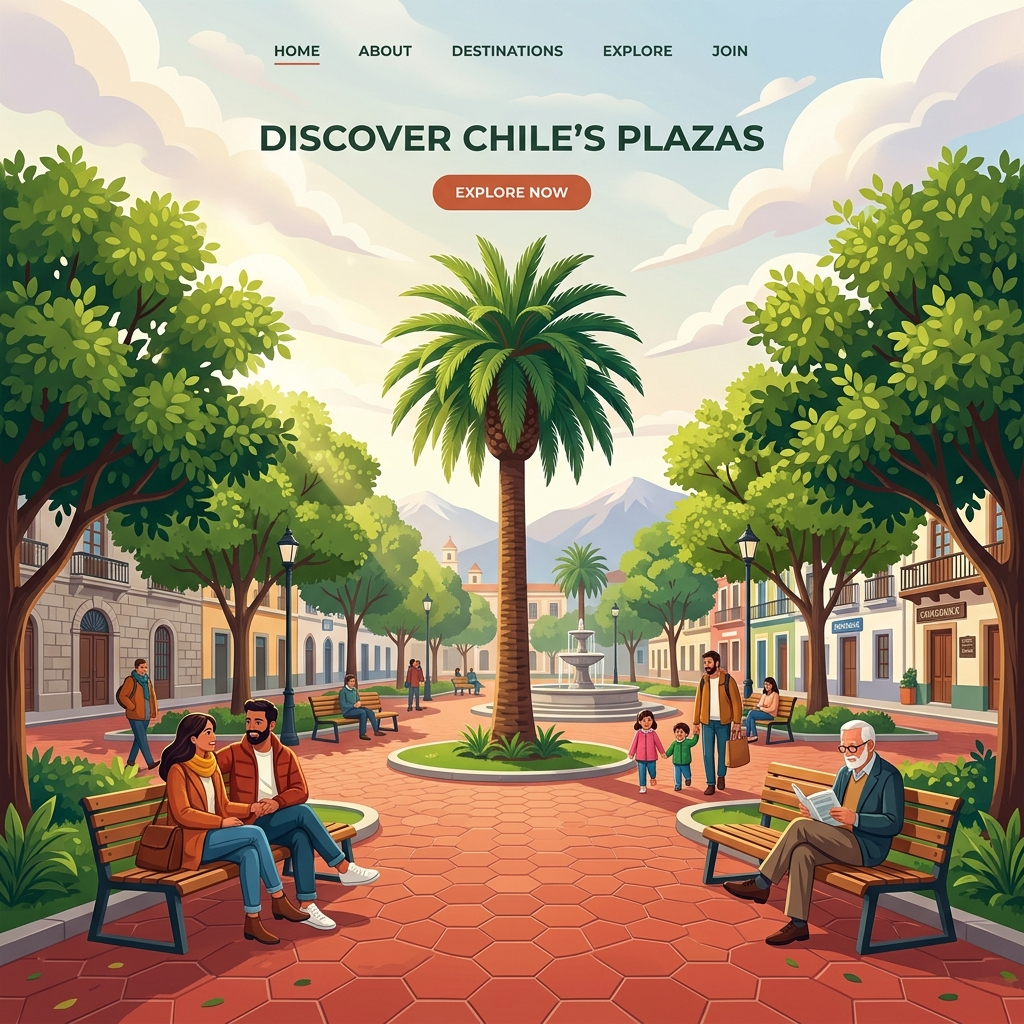
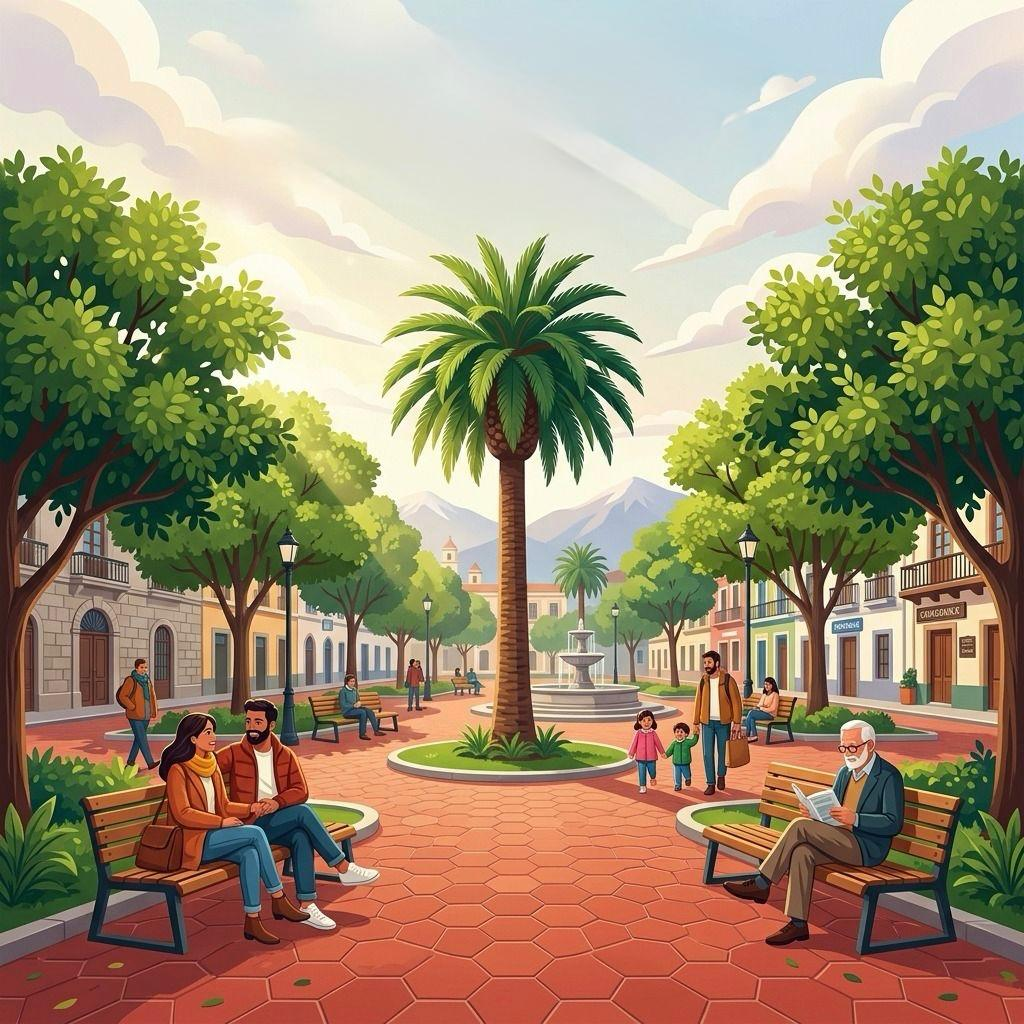
portada

diff --git a/public/css/style.css b/public/css/style.css
@@ -1593,7 +1593,7 @@ html {
     text-shadow: 0 0 10px rgba(99, 102, 241, 0.3);
 }
 
-/* Sección Hero — plaza comunitaria (recorte superior oculta texto stock) */
+/* Sección Hero — foto visible + panel legible sobre el texto */
 .landing-hero {
     position: relative;
     min-height: 90vh;
@@ -1602,7 +1602,7 @@ html {
     padding: 7rem 5% 4rem;
     background-color: #030712;
     background-repeat: no-repeat;
-    background-position: center 62%;
+    background-position: center center;
     background-size: cover;
     overflow: hidden;
 }
@@ -1613,8 +1613,8 @@ html {
     bottom: 0;
     left: 0;
     width: 100%;
-    height: 100px;
-    background: linear-gradient(to top, #030712, transparent);
+    height: 120px;
+    background: linear-gradient(to top, rgba(3, 7, 18, 0.75), transparent);
     z-index: 2;
     pointer-events: none;
 }
@@ -1623,25 +1623,32 @@ html {
     content: '';
     position: absolute;
     inset: 0;
-    background: linear-gradient(90deg, rgba(3, 7, 18, 0.35) 0%, transparent 50%, rgba(3, 7, 18, 0.15) 100%);
+    background: linear-gradient(105deg, rgba(3, 7, 18, 0.18) 0%, transparent 55%);
     z-index: 1;
     pointer-events: none;
 }
 
 .landing-hero-content {
-    max-width: 750px;
+    max-width: 720px;
     position: relative;
     z-index: 10;
     display: flex;
     flex-direction: column;
-    gap: 1.5rem;
+    gap: 1.35rem;
+    padding: 2rem 2.1rem;
+    border-radius: var(--radius-lg);
+    background: rgba(3, 7, 18, 0.48);
+    backdrop-filter: blur(16px);
+    -webkit-backdrop-filter: blur(16px);
+    border: 1px solid rgba(255, 255, 255, 0.1);
+    box-shadow: 0 20px 50px rgba(0, 0, 0, 0.35);
 }
 
 .landing-hero-tag {
     align-self: flex-start;
-    background: rgba(99, 102, 241, 0.15);
-    border: 1px solid rgba(99, 102, 241, 0.3);
-    color: #818cf8;
+    background: rgba(99, 102, 241, 0.22);
+    border: 1px solid rgba(129, 140, 248, 0.45);
+    color: #c7d2fe;
     padding: 0.35rem 1rem;
     border-radius: 50px;
     font-size: 0.8rem;
@@ -1651,6 +1658,7 @@ html {
     display: flex;
     align-items: center;
     gap: 0.5rem;
+    text-shadow: 0 1px 2px rgba(0, 0, 0, 0.35);
 }
 
 .landing-hero-tag::before {
@@ -1668,19 +1676,24 @@ html {
     font-weight: 800;
     line-height: 1.15;
     font-family: var(--font-heading);
+    color: #f8fafc;
+    text-shadow: 0 2px 16px rgba(0, 0, 0, 0.45);
 }
 
 .landing-hero-title span {
-    background: var(--gradient-primary);
+    background: linear-gradient(135deg, #a5b4fc 0%, #67e8f9 100%);
     -webkit-background-clip: text;
     -webkit-text-fill-color: transparent;
+    background-clip: text;
+    filter: drop-shadow(0 2px 8px rgba(0, 0, 0, 0.35));
 }
 
 .landing-hero-desc {
-    font-size: 1.15rem;
-    color: var(--text-muted);
-    line-height: 1.7;
+    font-size: 1.08rem;
+    color: #e2e8f0;
+    line-height: 1.75;
     max-width: 600px;
+    text-shadow: 0 1px 8px rgba(0, 0, 0, 0.4);
 }
 
 .landing-hero-ctas {
@@ -1947,10 +1960,6 @@ html {
 
 /* Responsividad para la Landing */
 @media (max-width: 768px) {
-    .landing-hero-title {
-        font-size: 2.5rem;
-    }
-    
     .landing-nav-links {
         display: none; /* Simplificado para móviles */
     }
@@ -1960,8 +1969,17 @@ html {
     }
     
     .landing-hero {
-        padding: 6rem 1.5rem 3rem;
-        background-position: center 68%;
+        padding: 6rem 1.25rem 3rem;
+        background-position: center center;
+    }
+
+    .landing-hero-content {
+        padding: 1.5rem 1.35rem;
+        max-width: 100%;
+    }
+
+    .landing-hero-title {
+        font-size: 2.35rem;
     }
     
     .landing-hero-ctas {

diff --git a/app/views/auth/login.php b/app/views/auth/login.php
@@ -24,11 +24,8 @@
     </nav>
 
     <!-- Sección Hero -->
-    <?php
-    $heroBgUrl = URLROOT . '/img/landing_bg.png?v=2';
-    $heroBgStyle = "background-image: linear-gradient(180deg, rgba(3,7,18,0.55) 0%, rgba(3,7,18,0.2) 22%, rgba(15,23,42,0.15) 45%, rgba(15,23,42,0.45) 100%), linear-gradient(135deg, rgba(99,102,241,0.12) 0%, transparent 50%), url('" . htmlspecialchars($heroBgUrl, ENT_QUOTES) . "')";
-    ?>
-    <header class="landing-hero" id="inicio" style="<?php echo $heroBgStyle; ?>">
+    <?php $heroBgUrl = URLROOT . '/img/landing_bg.png?v=3'; ?>
+    <header class="landing-hero" id="inicio" style="background-image: url('<?php echo htmlspecialchars($heroBgUrl, ENT_QUOTES); ?>');">
         <div class="landing-hero-content">
             <div class="landing-hero-tag">
                 Gestión Comunitaria Inteligente
